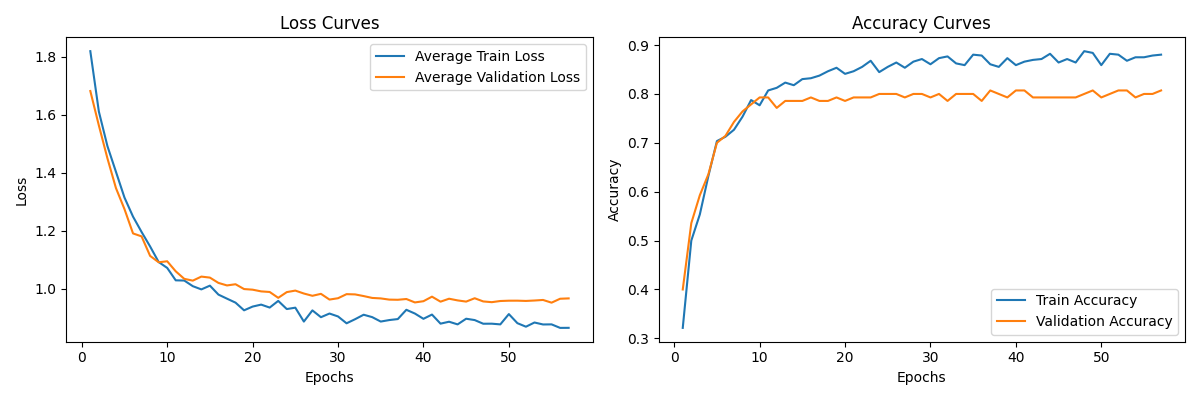
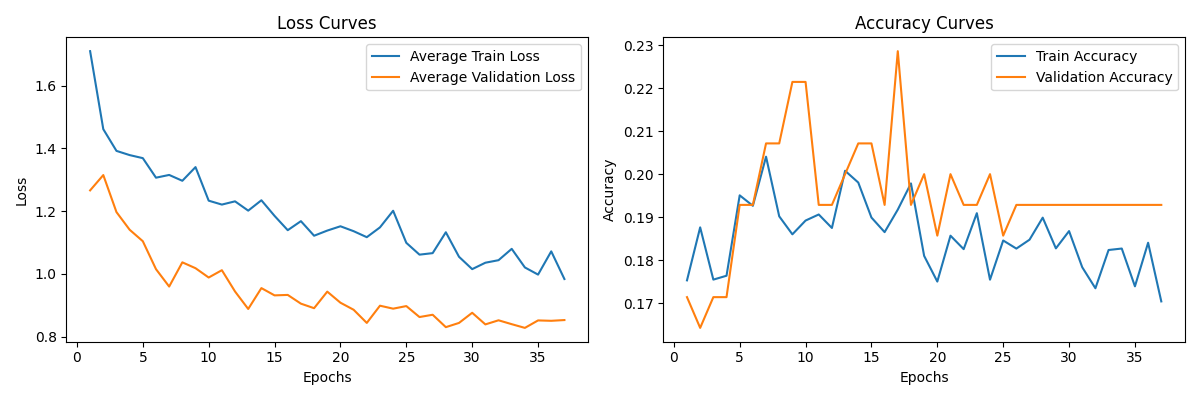
Update

diff --git a/src/handetect/configs.py b/src/handetect/configs.py
@@ -7,16 +7,22 @@ import torch.nn as nn
 from torchvision.models import (
     squeezenet1_0,
     SqueezeNet1_0_Weights,
+    squeezenet1_1,
+    SqueezeNet1_1_Weights,
+    shufflenet_v2_x2_0,
+    ShuffleNet_V2_X2_0_Weights,
     mobilenet_v3_small,
     MobileNet_V3_Small_Weights,
 )
-from torchvision.models import squeezenet1_0
+
+import torch.nn.functional as F
+from pytorchcv.model_provider import get_model as ptcv_get_model
 
 # Constants
 RANDOM_SEED = 123
-BATCH_SIZE = 64
-NUM_EPOCHS = 100
-LEARNING_RATE = 0.00016633192288673592
+BATCH_SIZE = 16
+NUM_EPOCHS = 40
+LEARNING_RATE = 0.00016662575248025378
 STEP_SIZE = 10
 GAMMA = 0.9
 DEVICE = torch.device("cuda:0" if torch.cuda.is_available() else "cpu")
@@ -28,6 +34,8 @@ EXTERNAL_DATA_DIR = r"data/train/external/Task "
 COMBINED_DATA_DIR = r"data/train/combined/Task "
 TEMP_DATA_DIR = "data/temp/"
 NUM_CLASSES = 7
+LABEL_SMOOTHING_EPSILON = 0.1
+MIXUP_ALPHA = 0.2
 EARLY_STOPPING_PATIENCE = 20
 CLASSES = [
     "Alzheimer Disease",
@@ -42,7 +50,7 @@ MODEL_SAVE_PATH = r"output/checkpoints/model.pth"
 
 
 class SqueezeNet1_0WithDropout(nn.Module):
-    def __init__(self, num_classes=1000):
+    def __init__(self, num_classes, dropout_prob=0.5):
         super(SqueezeNet1_0WithDropout, self).__init__()
         squeezenet = squeezenet1_0(weights=SqueezeNet1_0_Weights.DEFAULT)
         self.features = squeezenet.features
@@ -52,37 +60,68 @@ class SqueezeNet1_0WithDropout(nn.Module):
             nn.ReLU(inplace=True),
             nn.AdaptiveAvgPool2d((1, 1)),
         )
+        self.dropout = nn.Dropout(
+            dropout_prob
+        )  # Add dropout layer with the specified probability
 
     def forward(self, x):
         x = self.features(x)
         x = self.classifier(x)
+        x = F.dropout(x, training=self.training)  # Apply dropout during training
         x = torch.flatten(x, 1)
         return x
 
 
-# class ShuffleNetV2WithDropout(nn.Module):
-#     def __init__(self, num_classes=1000):
-#         super(ShuffleNetV2WithDropout, self).__init__()
-#         shufflenet = shufflenet_v2_x2_0(weights=ShuffleNet_V2_X2_0_Weights)
-#         self.features = shufflenet.features
-#         self.classifier = nn.Sequential(
-#             nn.Conv2d(1024, num_classes, kernel_size=1),
-#             nn.BatchNorm2d(num_classes),  # add batch normalization
-#             nn.ReLU(inplace=True),
-#             nn.AdaptiveAvgPool2d((1, 1))
-#         )
+class SqueezeNet1_1WithDropout(nn.Module):
+    def __init__(self, num_classes, dropout_prob=0.5):
+        super(SqueezeNet1_1WithDropout, self).__init__()
+        squeezenet = squeezenet1_1(weights=SqueezeNet1_1_Weights.DEFAULT)
+        self.features = squeezenet.features
+        self.classifier = nn.Sequential(
+            nn.Conv2d(512, num_classes, kernel_size=1),
+            nn.BatchNorm2d(num_classes),  # add batch normalization
+            nn.ReLU(inplace=True),
+            nn.AdaptiveAvgPool2d((1, 1)),
+        )
+        self.dropout = nn.Dropout(
+            dropout_prob
+        )  # Add dropout layer with the specified probability
 
-#     def forward(self, x):
-#         x = self.features(x)
-#         x = self.classifier(x)
-#         x = torch.flatten(x, 1)
-#         return x
+    def forward(self, x):
+        x = self.features(x)
+        x = self.classifier(x)
+        x = F.dropout(x, training=self.training)  # Apply dropout during training
+        x = torch.flatten(x, 1)
+        return x
+
+
+class ShuffleNetV2WithDropout(nn.Module):
+    def __init__(self, num_classes, dropout_prob=0.5):
+        super(ShuffleNetV2WithDropout, self).__init__()
+        shufflenet = shufflenet_v2_x2_0(weights=ShuffleNet_V2_X2_0_Weights.DEFAULT)
+        self.features = shufflenet.features
+        self.classifier = nn.Sequential(
+            nn.Conv2d(1024, num_classes, kernel_size=1),
+            nn.BatchNorm2d(num_classes),  # add batch normalization
+            nn.ReLU(inplace=True),
+            nn.AdaptiveAvgPool2d((1, 1)),
+        )
+        self.dropout = nn.Dropout(
+            dropout_prob
+        )  # Add dropout layer with the specified probability
+
+    def forward(self, x):
+        x = self.features(x)
+        x = self.classifier(x)
+        x = F.dropout(x, training=self.training)  # Apply dropout during training
+        x = torch.flatten(x, 1)
+        return x
 
 
 class MobileNetV3SmallWithDropout(nn.Module):
-    def __init__(self, num_classes=1000):
+    def __init__(self, num_classes, dropout_prob=0.5):
         super(MobileNetV3SmallWithDropout, self).__init__()
-        mobilenet = mobilenet_v3_small(weights=MobileNet_V3_Small_Weights)
+        mobilenet = mobilenet_v3_small(weights=MobileNet_V3_Small_Weights.DEFAULT)
         self.features = mobilenet.features
         self.classifier = nn.Sequential(
             nn.Conv2d(576, num_classes, kernel_size=1),
@@ -90,41 +129,25 @@ class MobileNetV3SmallWithDropout(nn.Module):
             nn.ReLU(inplace=True),
             nn.AdaptiveAvgPool2d((1, 1)),
         )
+        self.dropout = nn.Dropout(
+            dropout_prob
+        )  # Add dropout layer with the specified probability
 
     def forward(self, x):
         x = self.features(x)
         x = self.classifier(x)
-        x = torch.flatten(x, 1)
-        return x
-
-
-class ResNet18WithNorm(nn.Module):
-    def __init__(self, num_classes=1000):
-        super(ResNet18WithNorm, self).__init__()
-        resnet = resnet18(pretrained=False)
-        self.features = nn.Sequential(
-            *list(resnet.children())[:-2]
-        )  # Remove last 2 layers (avgpool and fc)
-        self.classifier = nn.Sequential(
-            nn.AdaptiveAvgPool2d((1, 1)),
-            nn.Flatten(),
-            nn.Linear(512, num_classes),
-            nn.BatchNorm1d(num_classes),  # Add batch normalization
-        )
-
-    def forward(self, x):
-        x = self.features(x)
-        x = self.classifier(x)
+        x = F.dropout(x, training=self.training)  # Apply dropout during training
         x = torch.flatten(x, 1)
         return x
 
 
 MODEL = SqueezeNet1_0WithDropout(num_classes=7)
+# MODEL = ptcv_get_model("sqnxt23v5_w2", pretrained=False, num_classes=7)
 print(CLASSES)
 
 preprocess = transforms.Compose(
     [
-        transforms.Resize((112, 112)), # Resize to 112x112
+        transforms.Resize((274, 274)),  # Resize to 112x112
         transforms.ToTensor(),  # Convert to tensor
         transforms.Grayscale(num_output_channels=3),  # Convert to 3 channels
         # Normalize 3 channels

diff --git a/src/handetect/train.py b/src/handetect/train.py
@@ -7,10 +7,42 @@ from models import *
 from torch.utils.tensorboard import SummaryWriter
 from configs import *
 import data_loader
+import torch.nn.functional as F
+import numpy as np
+
+
+class LabelSmoothingLoss(nn.Module):
+    def __init__(self, epsilon=0.1, num_classes=2):
+        super(LabelSmoothingLoss, self).__init__()
+        self.epsilon = epsilon
+        self.num_classes = num_classes
+
+    def forward(self, input, target):
+        target_smooth = (1 - self.epsilon) * target + self.epsilon / self.num_classes
+        return nn.CrossEntropyLoss()(input, target_smooth)
 
 
 def setup_tensorboard():
     return SummaryWriter(log_dir="output/tensorboard/training")
+
+
+def mixup_data(x, y, alpha=1.0):
+    """Returns mixed inputs, pairs of targets, and lambda"""
+    if alpha > 0:
+        lam = np.random.beta(alpha, alpha)
+    else:
+        lam = 1
+
+    batch_size = x.size()[0]
+    index = torch.randperm(batch_size)
+
+    mixed_x = lam * x + (1 - lam) * x[index, :]
+    y_a, y_b = y, y[index]
+    return mixed_x, y_a, y_b, lam
+
+
+def mixup_criterion(criterion, pred, y_a, y_b, lam):
+    return lam * criterion(pred, y_a) + (1 - lam) * criterion(pred, y_b)
 
 
 def load_and_preprocess_data():
@@ -26,7 +58,7 @@ def initialize_model_optimizer_scheduler():
     model = MODEL.to(DEVICE)
     criterion = nn.CrossEntropyLoss()
     optimizer = optim.Adam(model.parameters(), lr=LEARNING_RATE)
-    scheduler = optim.lr_scheduler.StepLR(optimizer, step_size=STEP_SIZE, gamma=GAMMA)
+    scheduler = optim.lr_scheduler.CosineAnnealingLR(optimizer, T_max=NUM_EPOCHS)
     return model, criterion, optimizer, scheduler
 
 
@@ -35,7 +67,7 @@ def plot_and_log_metrics(metrics_dict, step, writer, prefix="Train"):
         writer.add_scalar(f"{prefix}/{metric_name}", metric_value, step)
 
 
-def train_one_epoch(model, criterion, optimizer, train_loader, epoch):
+def train_one_epoch(model, criterion, optimizer, train_loader, epoch, alpha):
     model.train()
     running_loss = 0.0
     total_train = 0
@@ -44,11 +76,15 @@ def train_one_epoch(model, criterion, optimizer, train_loader, epoch):
     for i, (inputs, labels) in enumerate(train_loader, 0):
         inputs, labels = inputs.to(DEVICE), labels.to(DEVICE)
         optimizer.zero_grad()
-        if model.__class__.__name__ == "GoogLeNet":
-            outputs = model(inputs).logits
-        else:
-            outputs = model(inputs)
-        loss = criterion(outputs, labels)
+
+        # Apply mixup
+        inputs, targets_a, targets_b, lam = mixup_data(inputs, labels, alpha)
+
+        outputs = model(inputs)
+
+        # Calculate mixup loss
+        loss = mixup_criterion(criterion, outputs, targets_a, targets_b, lam)
+
         loss.backward()
         optimizer.step()
         running_loss += loss.item()
@@ -107,7 +143,7 @@ def main_training_loop():
         print("Learning rate:", scheduler.get_last_lr()[0])
 
         avg_train_loss, train_accuracy = train_one_epoch(
-            model, criterion, optimizer, train_loader, epoch
+            model, criterion, optimizer, train_loader, epoch, MIXUP_ALPHA
         )
         AVG_TRAIN_LOSS_HIST.append(avg_train_loss)
         TRAIN_ACC_HIST.append(train_accuracy)
@@ -154,7 +190,7 @@ def main_training_loop():
                 )
             )
             break
-
+    MODEL_SAVE_PATH = "output/checkpoints/model.pth"
     # Ensure the parent directory exists
     os.makedirs(os.path.dirname(MODEL_SAVE_PATH), exist_ok=True)
     torch.save(model.state_dict(), MODEL_SAVE_PATH)

diff --git a/src/handetect/eval.py b/src/handetect/eval.py
@@ -1,29 +1,30 @@
 import os
 import torch
-from torchvision.transforms import transforms
+import numpy as np
 import pathlib
 from PIL import Image
-from torchmetrics import ConfusionMatrix, Accuracy, F1Score
 import matplotlib.pyplot as plt
 from sklearn.metrics import (
     classification_report,
     precision_recall_curve,
+    accuracy_score,
+    f1_score,
+    confusion_matrix,
+    ConfusionMatrixDisplay,
     roc_curve,
     auc,
-    confusion_matrix,
 )
+from sklearn.preprocessing import label_binarize
 from configs import *
 from data_loader import load_data  # Import the load_data function
-import numpy as np
 
 # Constants
 DEVICE = torch.device("cuda:0" if torch.cuda.is_available() else "cpu")
 
 # Load the model
 MODEL = MODEL.to(DEVICE)
-MODEL.load_state_dict(torch.load(r"C:\Users\User\Documents\Flutter-test\handetect\assets\model.pt", map_location=DEVICE))
+MODEL.load_state_dict(torch.load(MODEL_SAVE_PATH, map_location=DEVICE))
 MODEL.eval()
-
 
 def predict_image(image_path, model, transform):
     model.eval()
@@ -37,9 +38,6 @@ def predict_image(image_path, model, transform):
     true_classes = []
     predicted_labels = []
     predicted_scores = []  # To store predicted class probabilities
-
-    accuracy_metric = Accuracy(num_classes=NUM_CLASSES, task="multiclass")
-    f1_metric = F1Score(num_classes=NUM_CLASSES, task="multiclass")
 
     with torch.no_grad():
         for image_file in images:
@@ -67,22 +65,20 @@ def predict_image(image_path, model, transform):
                 correct_predictions += 1
 
     # Calculate accuracy and f1 score
-    accuracy = correct_predictions / total_predictions
+    accuracy = accuracy_score(true_classes, predicted_labels)
     print("Accuracy:", accuracy)
-    f1 = f1_metric(torch.tensor(predicted_labels), torch.tensor(true_classes)).item()
+    f1 = f1_score(true_classes, predicted_labels, average="weighted")
     print("Weighted F1 Score:", f1)
 
     # Convert the lists to tensors
     predicted_labels_tensor = torch.tensor(predicted_labels)
     true_classes_tensor = torch.tensor(true_classes)
 
-    # Create a confusion matrix
-    conf_matrix = ConfusionMatrix(num_classes=NUM_CLASSES, task="multiclass")
-    conf_matrix(predicted_labels_tensor, true_classes_tensor)
+    # Calculate the confusion matrix
+    conf_matrix = confusion_matrix(true_classes, predicted_labels)
 
     # Plot the confusion matrix
-    conf_matrix.compute()
-    conf_matrix.plot()
+    ConfusionMatrixDisplay(confusion_matrix=conf_matrix, display_labels=CLASSES).plot(cmap=plt.cm.Blues)
     plt.title("Confusion Matrix")
     plt.show()
 
@@ -92,8 +88,20 @@ def predict_image(image_path, model, transform):
         true_classes, predicted_labels, target_names=class_names
     )
     print("Classification Report:\n", report)
-    
-    
+
+    # Calculate precision and recall for each class
+    true_classes_binary = label_binarize(true_classes, classes=range(NUM_CLASSES))
+    precision, recall, _ = precision_recall_curve(
+        true_classes_binary.ravel(), np.array(predicted_scores).ravel()
+    )
+
+    # Plot precision-recall curve
+    plt.figure(figsize=(10, 6))
+    plt.plot(recall, precision)
+    plt.title("Precision-Recall Curve")
+    plt.xlabel("Recall")
+    plt.ylabel("Precision")
+    plt.show()
 
 
 # Call predict_image function with your image path

diff --git a/src/handetect/tuning.py b/src/handetect/tuning.py
@@ -12,7 +12,7 @@ from torch.utils.tensorboard import SummaryWriter
 DEVICE = torch.device("cuda" if torch.cuda.is_available() else "cpu")
 EPOCHS = 10
 N_TRIALS = 1000
-TIMEOUT = 1800
+TIMEOUT = 14400  
 
 # Create a TensorBoard writer
 writer = SummaryWriter(log_dir="output/tensorboard/tuning")
